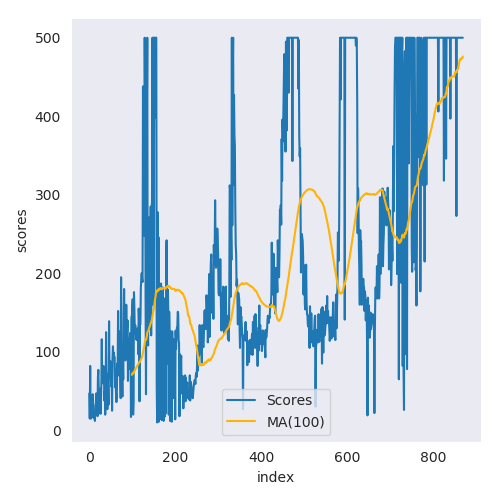
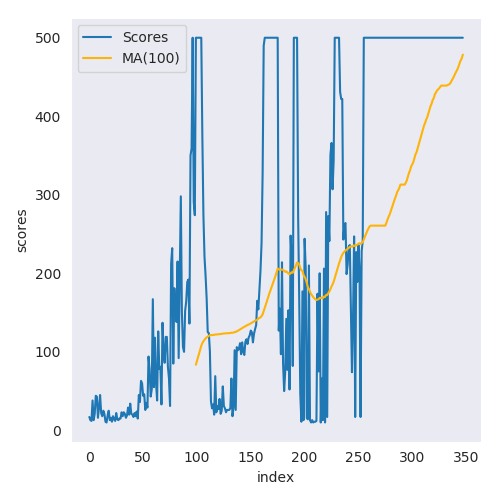
feat: add lr scheduler to training policy gradient; chore: fine-tuned the hyperparameters for REINFORCE in cartpole-v1

diff --git a/cartpole-v1/run_reinforce.py b/cartpole-v1/run_reinforce.py
@@ -26,12 +26,13 @@ PARSER.add_argument('-f', '--flag', default='reinforce', type=str, help="saving 
 PARSER.add_argument('-ws', '--window_size', default=100, type=int,
                     help="moving average window for plotting")
 
-# RL hyperparameters
+# model hyperparameters
 PARSER.add_argument('-gamma', '--gamma', default=1., type=float, help='discount factor')
 PARSER.add_argument('-lr', '--lr', default=5e-4, type=float, help='learning rate')
+PARSER.add_argument('-d', '--dropout', default=0.5, type=float, help='dropout probability')
 
 # training hyperparameters
-PARSER.add_argument('-s', '--seed', default=4321, type=int, help="seeds")
+PARSER.add_argument('-s', '--seed', default=432, type=int, help="seeds")
 PARSER.add_argument('-maxt', '--maxt', default=10000, type=int, help="maximum episode length")
 PARSER.add_argument('-n', '--n_episode', default=2000, type=int, help="maximum numbers of episode")
 
@@ -67,6 +68,9 @@ if __name__ == "__main__":
     max_t = ARGS.maxt
     gamma = ARGS.gamma
     optimizer = optim.Adam(agent.policy.parameters(), lr=ARGS.lr)
+    scheduler = optim.lr_scheduler.ReduceLROnPlateau(optimizer, mode='max', factor=0.9, 
+                                                     verbose=True, threshold=1, 
+                                                     min_lr = 5e-4, patience=100)
 
     scores = []                        
     scores_window = deque(maxlen=100)  
@@ -93,6 +97,7 @@ if __name__ == "__main__":
         optimizer.zero_grad()
         policy_loss.backward()
         optimizer.step()
+        scheduler.step(np.mean(scores_window))
         
         print('\rEpisode {}\tAverage Score: {:.2f}'\
               .format(i_episode, np.mean(scores_window)), end="")

diff --git a/agents/reinforce.py b/agents/reinforce.py
@@ -21,6 +21,7 @@ class Policy(nn.Module):
         dims = (state_size,) + args.hidden_size + (action_size,)
         self.linears = nn.ModuleList([nn.Linear(dims[i], dims[i+1]) 
                                       for i in range(len(dims)-1)])
+        self.p = args.dropout
         
 
     def forward(self, x):
@@ -29,7 +30,7 @@ class Policy(nn.Module):
             if i == ind_end - 1:
                 x = F.softmax(l(x), dim=1)
             else:
-                x = F.relu(F.dropout(l(x), p=0.6))
+                x = F.relu(F.dropout(l(x), p=self.p))
         return x
     
     def act(self, state):

diff --git a/cartpole-v1/agent_wrapper.py b/cartpole-v1/agent_wrapper.py
@@ -71,10 +71,11 @@ class AgentWrapper:
     def reinforce(self):
         if self.args.args_wrapper:
             self.args.flag = 'reinforce'
-            self.args.hidden_size = (128,)
+            self.args.hidden_size = (128, )
             self.args.window_size = 100
-            self.args.gamma = 0.99
+            self.args.gamma = 0.5
             self.args.lr = 1e-2
             self.args.maxt = 10000
             self.args.n_episode = 2000
+            self.args.dropout = 0
         self.agent = Reinforce

diff --git a/README.md b/README.md
@@ -9,7 +9,7 @@ A PyTorch Implementation
 
 |Environment|DQN|Double-DQN|Dueling-DQN|REINFORCE|
 |---|:-:|:-:|:-:|:-:|
-|CartPole-v1|:hourglass_flowing_sand:|:hourglass_flowing_sand:|:hourglass_flowing_sand:|:hourglass_flowing_sand:|
+|CartPole-v1|:hourglass_flowing_sand:|:hourglass_flowing_sand:|:hourglass_flowing_sand:|:ballot_box_with_check:|
 
 - :sweat_drops: work in progress
 - :hourglass_flowing_sand: hyperparameter tuning
